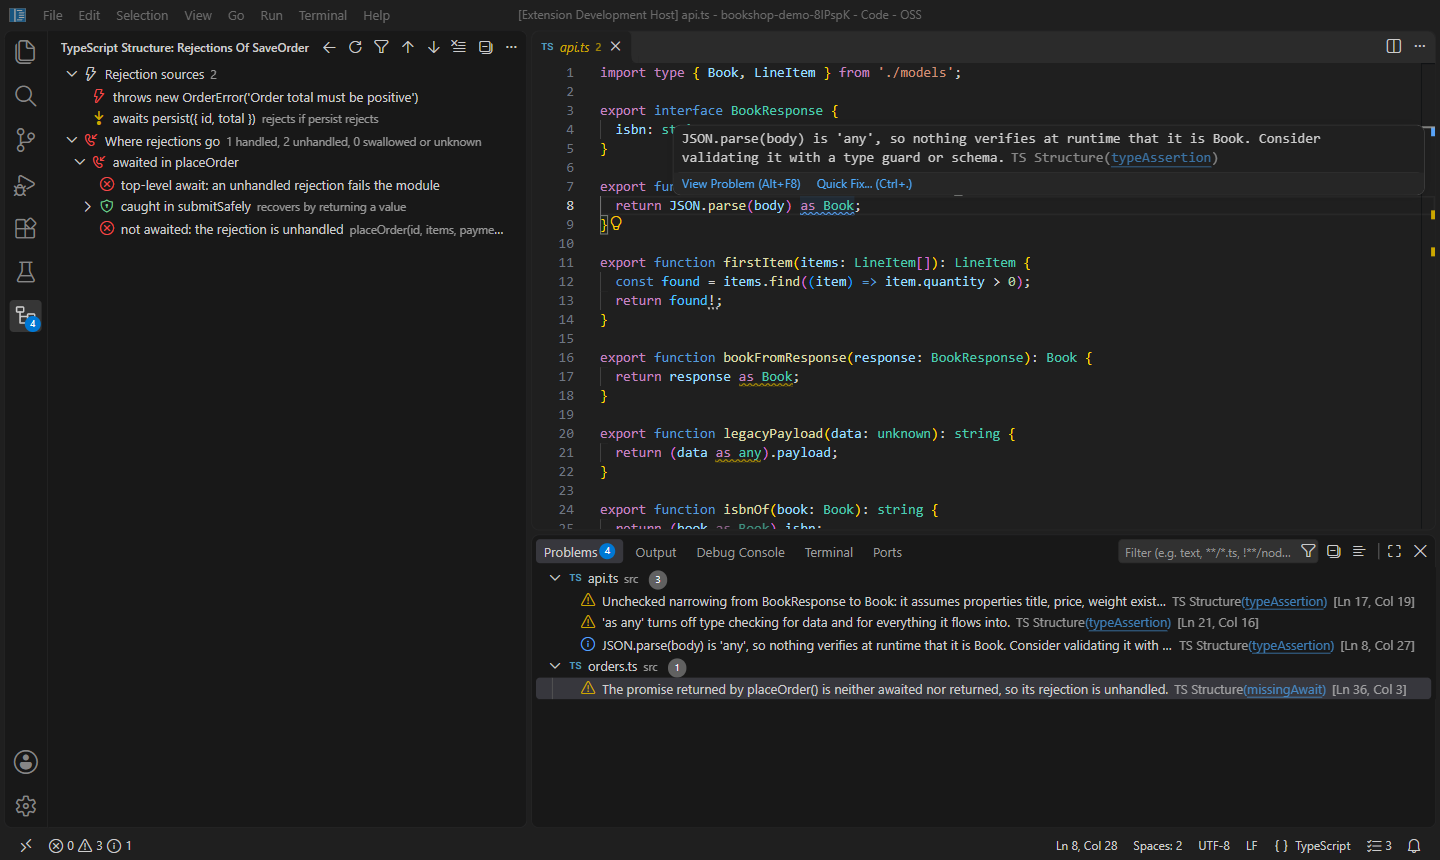
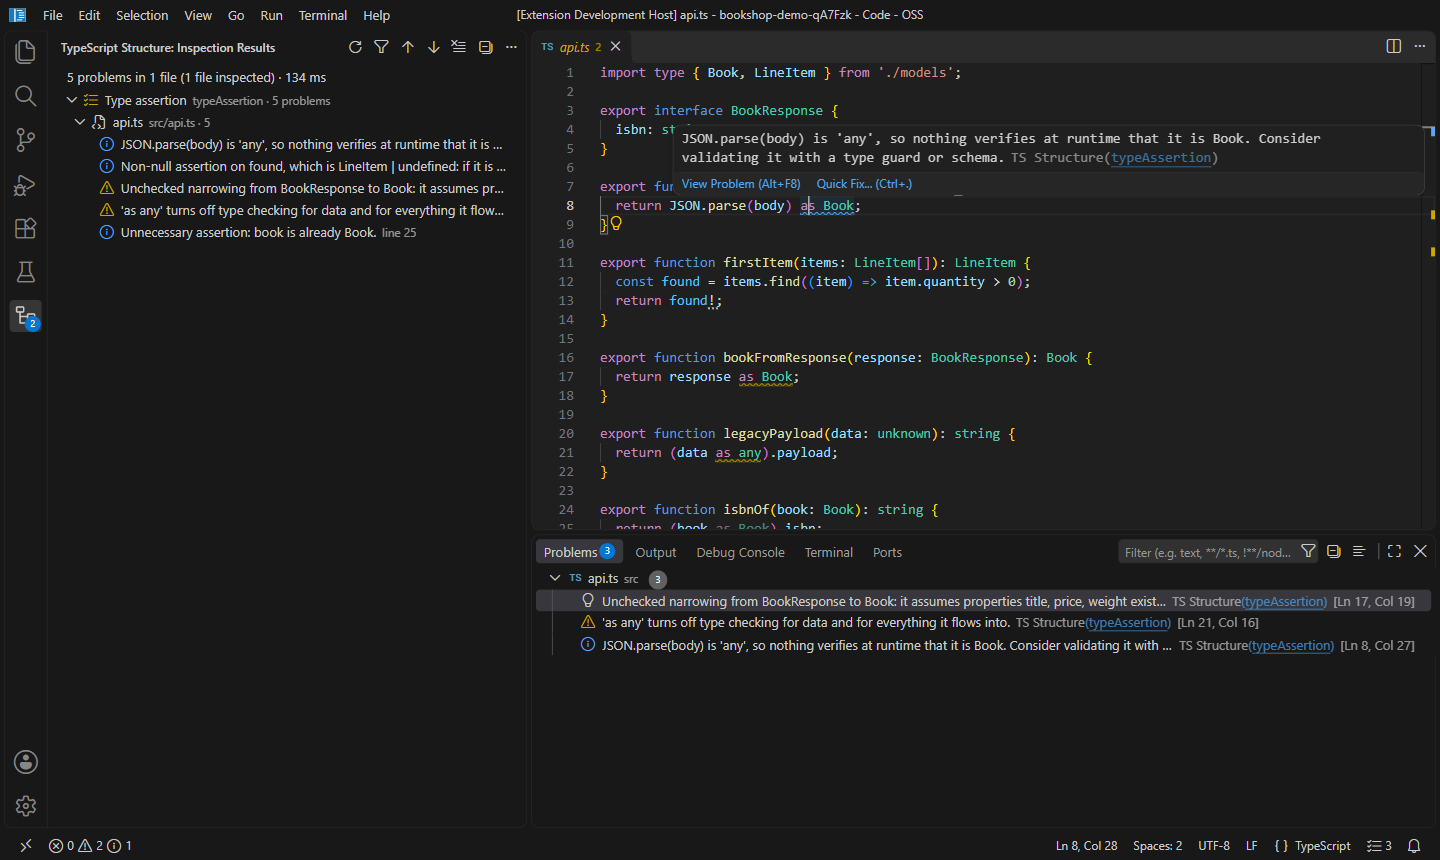
Guide: Type Assertion Inspector, with a screenshot

diff --git a/README.md b/README.md
@@ -324,6 +324,26 @@ Every analysis can be started three ways: from the editor's right-click menu und
 5. For helpers that are meant to run in the background, such as analytics or logging, list them in `tsStructure.missingAwait.ignore` instead of suppressing every call. For example, `["track", "logger.*"]`.
 6. To check the whole project, run **Inspect Code…** and choose the project. Results open in the TypeScript Structure view, and fixable rows have an **Apply Fix** button.
 
+### Type Assertion Inspector (live inspection)
+
+![Five assertions in api.ts classified: JSON.parse as Book is unverified, found! may be undefined, BookResponse as Book narrows without a check, as any turns off checking, and book as Book is unnecessary](docs/images/type-assertions.png)
+
+1. Like Missing Await, this inspection runs on every visible TypeScript or JavaScript file. Open `src/api.ts` in the demo.
+2. Each `as`, `<T>` and `!` is classified:
+   - **Unchecked narrowing** (warning), with what it assumes, such as *it assumes properties title, price, weight exist*;
+   - **Unsafe** (warning): `as any`, double assertions through `unknown`;
+   - **Unverified** (information): an assertion on an `any` value, such as `JSON.parse(body) as Book`;
+   - **Widening** (information);
+   - **Non-null `!` on a nullable value** (hint);
+   - **Unnecessary** (hint, shown faded), such as `book as Book` when `book` is already a `Book`.
+3. Hover a finding to read the explanation, or press `Ctrl+.` for fixes:
+   - **Remove unnecessary assertion**;
+   - **Use 'satisfies Shape'** for widening, which keeps the compiler's check;
+   - **Use optional chaining '?.'** instead of `!`;
+   - suppression comments for the line or file.
+4. Hints don't appear in the Problems panel. Run **Inspect Code…** on the file to list every finding, hints included, in the TypeScript Structure view.
+5. Change how loud each inspection is with `tsStructure.inspections.severity`, for example `{ "typeAssertion": "info" }`, or `"off"` to disable it.
+
 ## Test Impact Analysis
 
 ### Usage
